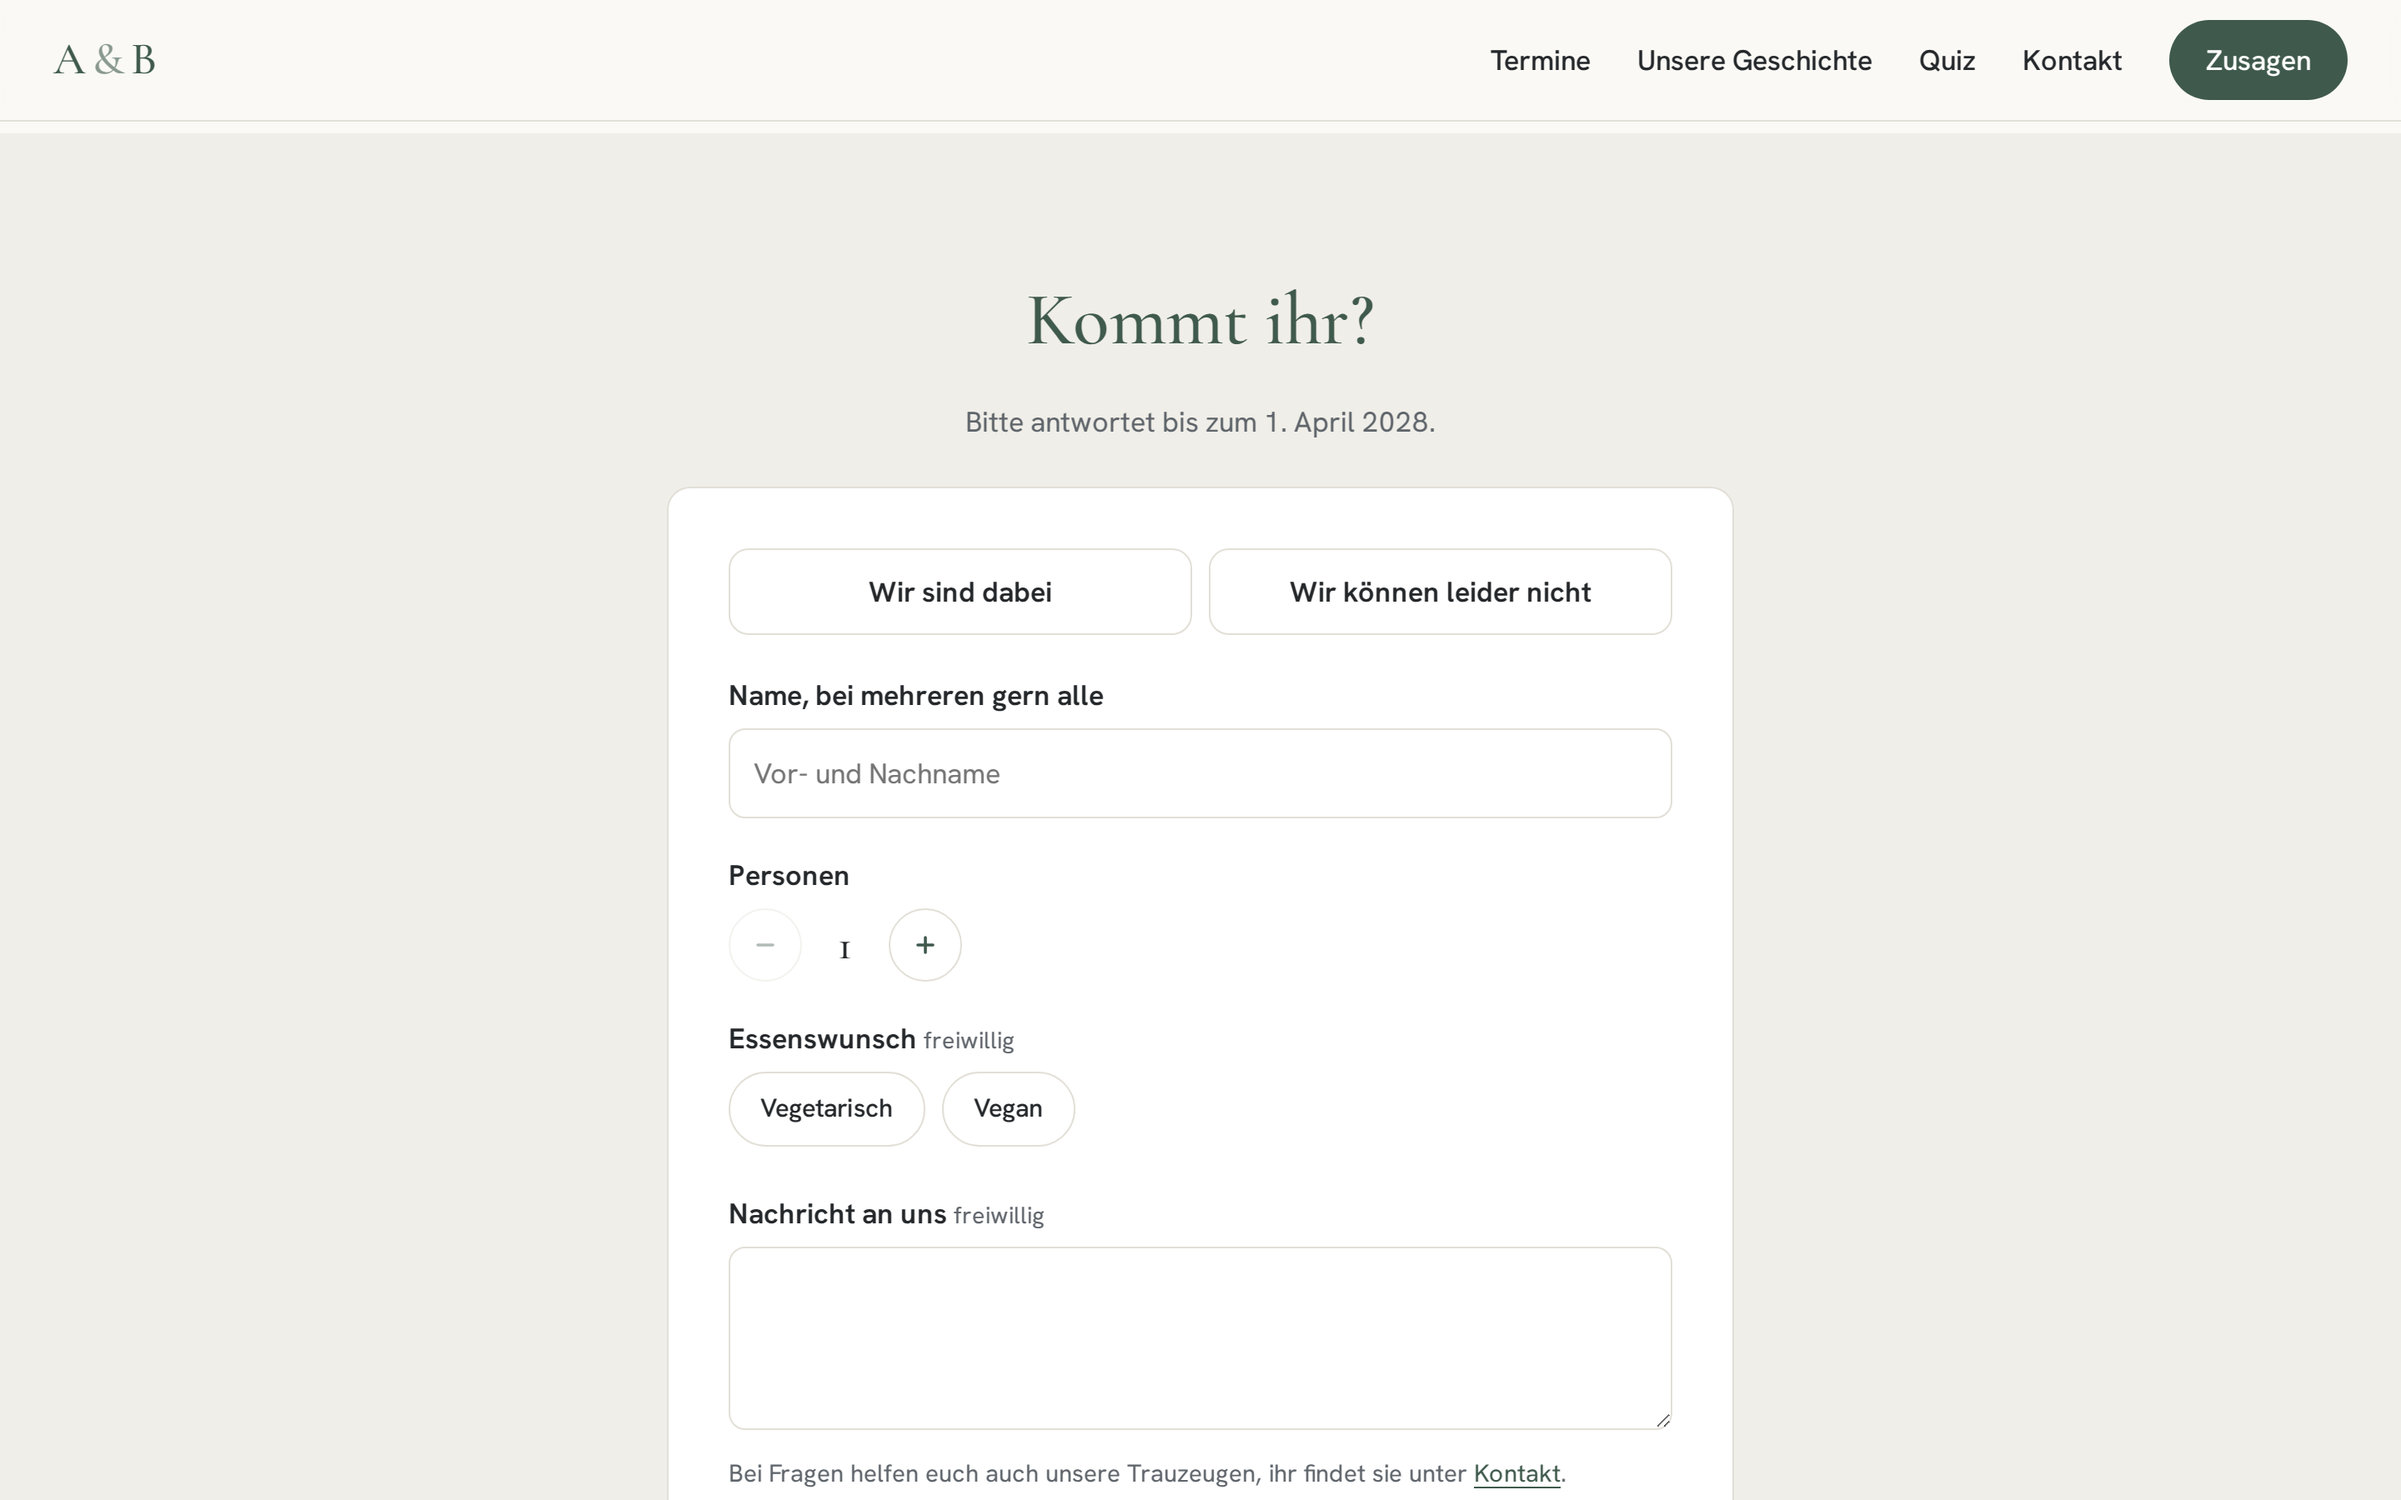
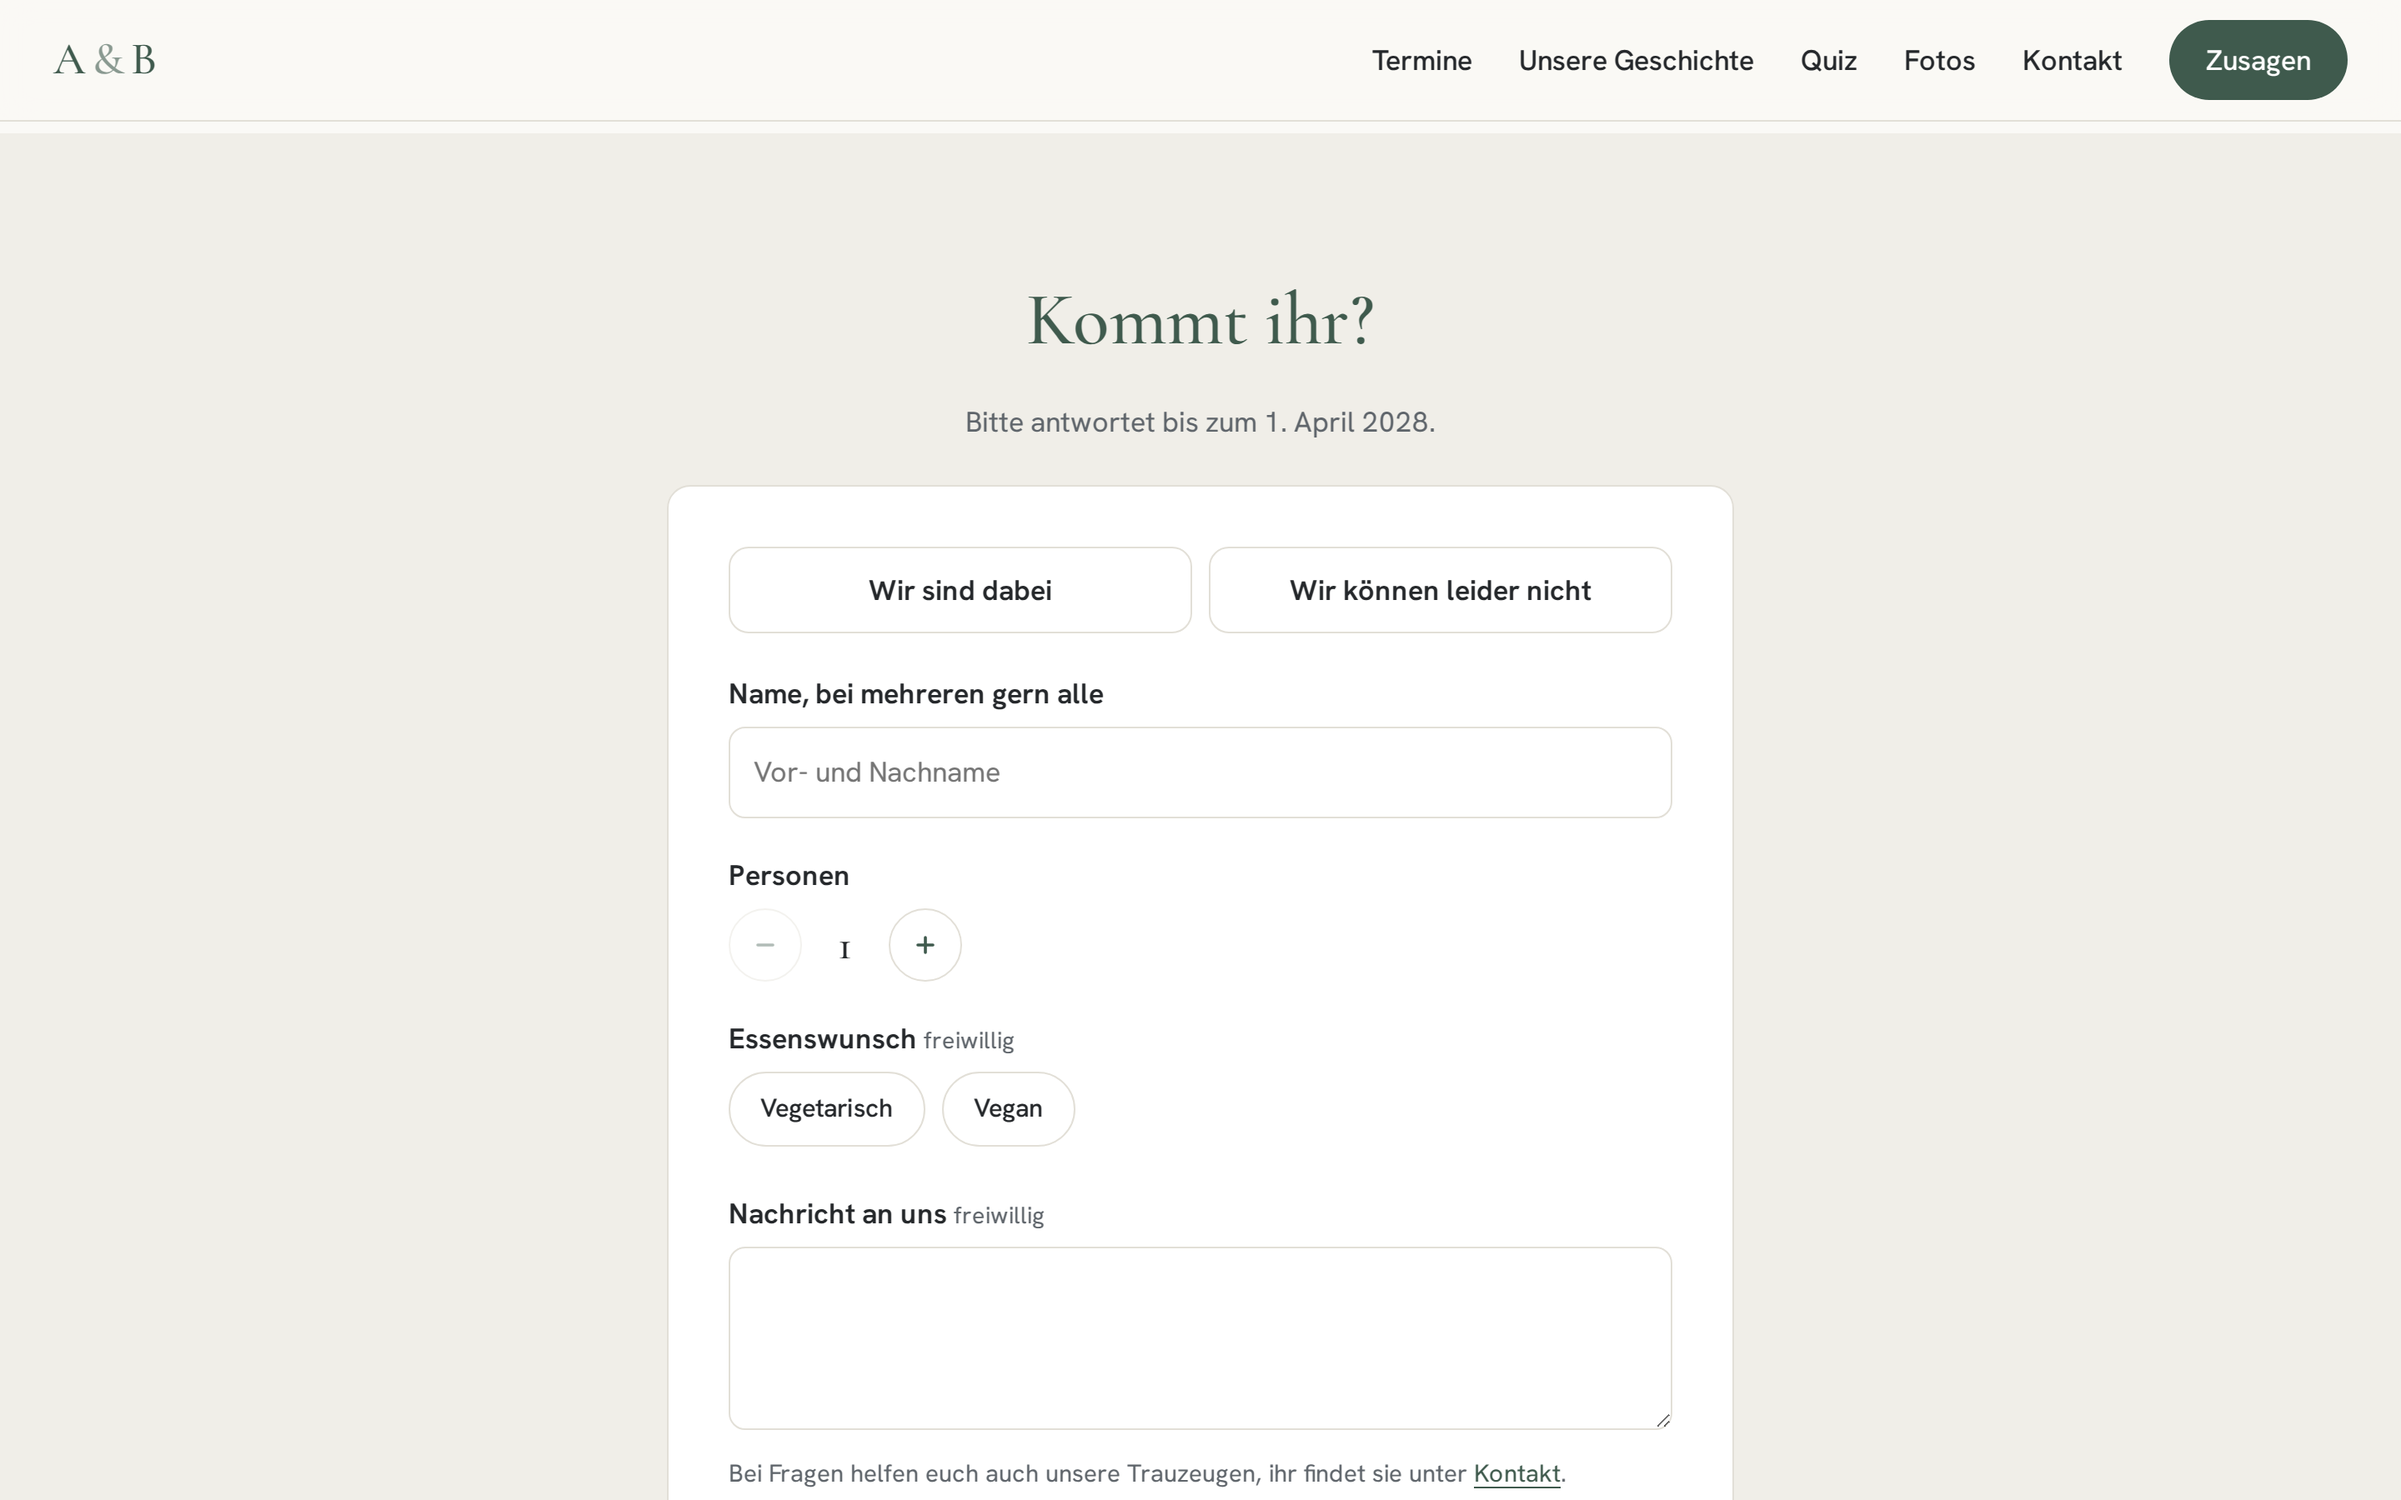
Gästefotos im README nach vorn gestellt, neue Mockups und Paarbild
Eigener Abschnitt "Fotos von allen Gästen an einem Ort" gleich nach dem ersten Mockup, mit Ablauf, Hinweisen und weiteren Ansichten.
Neue Mockups: Galerie und Hochladen am Computer und Handy, Verwaltung der Gästefotos mit gedruckten Aufstellern.
Das Hauptmockup zeigt jetzt ein gezeichnetes Brautpaar als Titelbild, alle Galeriefotos sind ebenfalls gezeichnet.
Bestehende Mockups und Screenshots neu aufgenommen (Menüpunkt Fotos, Reiter Gästefotos, deutsche Datumsfelder).

diff --git a/README.md b/README.md
@@ -1,12 +1,52 @@
 # Wedding Planner
 
-Eine eigene Hochzeitsseite mit Verwaltung, die du selbst betreibst. Deine Gäste sagen online zu oder ab, du behältst Gästeliste, Sitzplan, Aufgaben und Kosten im Blick. Alles läuft in einem einzigen Docker-Container, die Daten bleiben bei dir.
+Eine eigene Hochzeitsseite mit Verwaltung, die du selbst betreibst. Deine Gäste sagen online zu oder ab und laden am Hochzeitstag ihre Fotos hoch, du behältst Gästeliste, Sitzplan, Aufgaben und Kosten im Blick. Alles läuft in einem einzigen Docker-Container, die Daten bleiben bei dir.
 
-*English in short: a self-hosted wedding website with RSVP and a planning back office (guest list, seating plan, to-dos, budget). One Docker container, SQLite, no external services. The interface is in German.*
+*English in short: a self-hosted wedding website with RSVP, guest photo sharing (QR code per part of the day, shared gallery, ZIP download) and a planning back office (guest list, seating plan, to-dos, budget). One Docker container, SQLite, no external services. The interface is in German.*
 
 ## So sieht es aus
 
 ![Gästeseite am Computer und Handy](docs/mockup-startseite.png)
+
+## Fotos von allen Gästen an einem Ort
+
+Nach der Hochzeit hat jeder Gast ein paar gute Bilder, aber niemand hat alle. Hier laden deine Gäste ihre Fotos direkt auf eure Seite hoch. Ohne App, ohne Konto und ohne Cloud eines Fremdanbieters: Die Bilder landen auf deinem eigenen Server.
+
+![Fotos hochladen und Galerie am Computer und Handy](docs/mockup-fotos.jpg)
+
+**So läuft es ab**
+
+1. Du druckst für jeden Abschnitt des Tages (Standesamt, Kirche, Feier oder was ihr selbst anlegt) einen Aufsteller mit eigenem QR-Code.
+2. Gäste scannen den Code, tragen ihren Namen ein und wählen ihre Fotos aus, auch viele auf einmal. Der Abschnitt ist schon vorausgewählt.
+3. Alle Bilder erscheinen sofort in einer Galerie, nach Abschnitten filterbar und mit Großansicht zum Durchblättern.
+4. Danach lädst du alles mit einem Klick als ZIP herunter, sortiert in einen Ordner pro Abschnitt.
+
+![Verwaltung der Gästefotos mit gedruckten Aufstellern](docs/mockup-gaestefotos-verwaltung.jpg)
+
+**Gut zu wissen**
+
+- Der Browser verkleinert jedes Foto vor dem Hochladen und speichert es neu. Dabei fallen Aufnahmeort und Kameradaten weg.
+- Jedes Foto wird beim Hochladen per Prüfsumme kontrolliert. Bei schlechtem Netz sendet die Seite bis zu viermal neu, das hilft auf Feiern mit schwachem Empfang.
+- Du entscheidest, wann hochgeladen werden darf: Abschnitte lassen sich einzeln öffnen und schließen. Ohne QR-Code wählt die Fotoseite am Hochzeitstag automatisch den Abschnitt, der gerade dran ist.
+- Die Galerie kannst du für Gäste ausschalten, dann siehst nur du sie in der Verwaltung.
+- Du kannst Fotos in einen anderen Abschnitt verschieben, verbergen oder löschen.
+- Ein passender Absatz in der Datenschutzerklärung ist schon dabei.
+- Die Fotos liegen getrennt von den Daten der Seite in `/data/gaestefotos/<abschnitt>/`.
+
+<details>
+<summary>Weitere Ansichten der Fotofunktion</summary>
+
+![Großansicht der Galerie](docs/screenshots/fotos-leuchtkasten.jpg)
+
+![Hochladen am Handy](docs/screenshots/fotos-upload-handy.jpg)
+
+![Abschnitte, QR-Codes und Galerie in der Verwaltung](docs/screenshots/verwaltung-gaestefotos.jpg)
+
+![Aufsteller zum Ausdrucken](docs/screenshots/aufsteller.png)
+
+</details>
+
+## Verwaltung
 
 ![Verwaltung mit Gästeliste, Sitzplan, To-dos und Kosten](docs/mockup-verwaltung.png)
 
@@ -23,15 +63,15 @@ Eine eigene Hochzeitsseite mit Verwaltung, die du selbst betreibst. Deine Gäste
 
 </details>
 
-Die Bilder zeigen Beispieldaten. Das Design der Gästeseite ist bewusst schlicht gehalten, damit du es leicht an euren Stil anpassen kannst.
+Die Bilder zeigen Beispieldaten, das Paar auf dem Titelbild und alle Galeriefotos sind gezeichnet. Das Design der Gästeseite ist bewusst schlicht gehalten, damit du es leicht an euren Stil anpassen kannst.
 
 ## Was drin ist
 
 **Für die Gäste**
+- **Fotos teilen:** Bilder vom Hochzeitstag per QR-Code hochladen, sortiert nach Abschnitten wie Standesamt, Kirche und Feier, mit gemeinsamer Galerie (siehe oben)
 - Startseite mit Namen, Terminen, Karten-Links und Kalenderdatei (.ics)
 - Zu- und Absage mit Personenzahl, Mitkommenden und Essenswunsch (vegetarisch, vegan)
 - Seiten für Geschichte, Quiz, Kontakt, Impressum und Datenschutz
-- Fotos teilen: Gäste laden während der Hochzeit ihre Bilder hoch, sortiert nach Abschnitten wie Standesamt, Kirche und Feier, mit Galerie
 - Funktioniert auf dem Handy, keine Cookies, keine Fremdanbieter, Schriften liegen lokal
 
 **Für euch (unter `/admin`)**
@@ -41,7 +81,7 @@ Die Bilder zeigen Beispieldaten. Das Design der Gästeseite ist bewusst schlicht
 - To-do-Liste mit Beispiel-Checkliste, die sich nach eurem Hochzeitsdatum richtet
 - Kosten mit Diagramm, Kosten pro Gast und Geschenke
 - Fotos, Geschichte und Quiz pflegen, QR-Code für die Einladung
-- Gästefotos: Abschnitte mit Datum und Uhrzeit, eigener QR-Code und Druckvorlage zum Aufstellen pro Abschnitt, Galerie zum Verschieben, Verbergen und Löschen, Download als ZIP
+- **Gästefotos:** Abschnitte mit Datum und Uhrzeit, eigener QR-Code und Druckvorlage zum Aufstellen pro Abschnitt, Galerie zum Verschieben, Verbergen und Löschen, Download als ZIP
 - Zwei bis sechs Zugänge, alle Angaben ohne Programmieren änderbar
 
 ## Schnellstart
